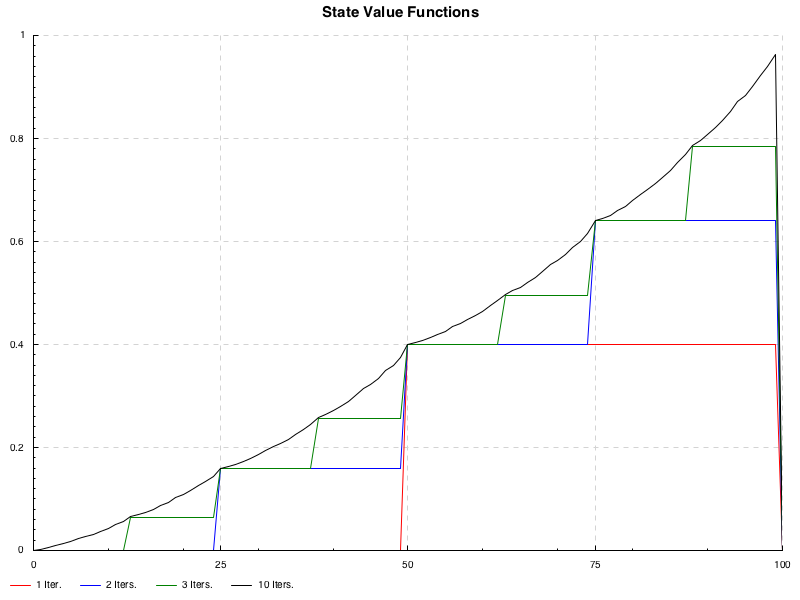
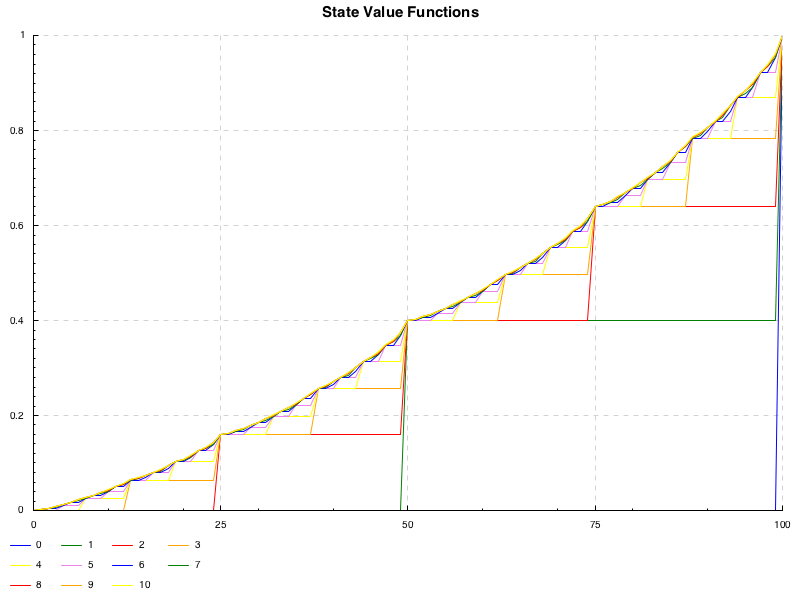
Progress on Gamblers Problem solution.

diff --git a/gambler.html b/gambler.html
@@ -72,108 +72,129 @@ Original date: May 10, 2018</p>
 <a class="sourceLine" id="cb4-11" data-line-number="11"></a>
 <a class="sourceLine" id="cb4-12" data-line-number="12">allStatesV <span class="fu">=</span> VS.generate P.id<span class="ot"> ::</span> <span class="dt">VS.Vector</span> <span class="dv">101</span> <span class="dt">Int</span></a>
 <a class="sourceLine" id="cb4-13" data-line-number="13"></a>
-<a class="sourceLine" id="cb4-14" data-line-number="14"><span class="ot">actions ::</span> <span class="dt">GState</span> <span class="ot">-&gt;</span> [<span class="dt">GAction</span>]</a>
-<a class="sourceLine" id="cb4-15" data-line-number="15">actions s <span class="fu">=</span> [<span class="dv">0</span> <span class="fu">..</span> min s (<span class="dv">100</span> <span class="fu">-</span> s)]</a>
+<a class="sourceLine" id="cb4-14" data-line-number="14"><span class="ot">actions&#39; ::</span> <span class="dt">GState</span> <span class="ot">-&gt;</span> [<span class="dt">GAction</span>]</a>
+<a class="sourceLine" id="cb4-15" data-line-number="15">actions&#39; s <span class="fu">=</span> [<span class="dv">0</span> <span class="fu">..</span> min s (<span class="dv">100</span> <span class="fu">-</span> s)]</a>
 <a class="sourceLine" id="cb4-16" data-line-number="16"></a>
-<a class="sourceLine" id="cb4-17" data-line-number="17"><span class="ot">nextStates ::</span> <span class="dt">GState</span> <span class="ot">-&gt;</span> <span class="dt">GAction</span> <span class="ot">-&gt;</span> [<span class="dt">GState</span>]</a>
-<a class="sourceLine" id="cb4-18" data-line-number="18">nextStates s a <span class="fu">=</span> <span class="kw">if</span> a <span class="fu">==</span> <span class="dv">0</span></a>
+<a class="sourceLine" id="cb4-17" data-line-number="17"><span class="ot">nextStates&#39; ::</span> <span class="dt">GState</span> <span class="ot">-&gt;</span> <span class="dt">GAction</span> <span class="ot">-&gt;</span> [<span class="dt">GState</span>]</a>
+<a class="sourceLine" id="cb4-18" data-line-number="18">nextStates&#39; s a <span class="fu">=</span> <span class="kw">if</span> a <span class="fu">==</span> <span class="dv">0</span></a>
 <a class="sourceLine" id="cb4-19" data-line-number="19">                   <span class="kw">then</span> [s]</a>
 <a class="sourceLine" id="cb4-20" data-line-number="20">                   <span class="kw">else</span> [s <span class="fu">-</span> a, s <span class="fu">+</span> a]</a>
 <a class="sourceLine" id="cb4-21" data-line-number="21"></a>
-<a class="sourceLine" id="cb4-22" data-line-number="22"><span class="ot">rewards ::</span> <span class="dt">GState</span> <span class="ot">-&gt;</span> <span class="dt">GAction</span> <span class="ot">-&gt;</span> <span class="dt">GState</span> <span class="ot">-&gt;</span> [(<span class="dt">Float</span>, <span class="dt">Float</span>)]</a>
-<a class="sourceLine" id="cb4-23" data-line-number="23">rewards s a s&#39; <span class="fu">=</span> <span class="kw">if</span> s&#39; <span class="fu">==</span> <span class="dv">100</span> <span class="fu">&amp;&amp;</span> s <span class="fu">/=</span> <span class="dv">100</span></a>
-<a class="sourceLine" id="cb4-24" data-line-number="24">                   <span class="kw">then</span> [(<span class="dv">1</span>, ph)]</a>
-<a class="sourceLine" id="cb4-25" data-line-number="25">                   <span class="kw">else</span> [(<span class="dv">0</span>, p)]</a>
-<a class="sourceLine" id="cb4-26" data-line-number="26"> <span class="kw">where</span> p <span class="fu">=</span> <span class="kw">if</span> s&#39; <span class="fu">==</span> s <span class="fu">+</span> a</a>
-<a class="sourceLine" id="cb4-27" data-line-number="27">             <span class="kw">then</span> ph</a>
-<a class="sourceLine" id="cb4-28" data-line-number="28">             <span class="kw">else</span> <span class="dv">1</span> <span class="fu">-</span> ph</a>
-<a class="sourceLine" id="cb4-29" data-line-number="29"></a>
-<a class="sourceLine" id="cb4-30" data-line-number="30"><span class="co">{----------------------------------------------------------------------</span></a>
-<a class="sourceLine" id="cb4-31" data-line-number="31"><span class="co">  Command line options defintions.</span></a>
-<a class="sourceLine" id="cb4-32" data-line-number="32"><span class="co">----------------------------------------------------------------------}</span></a>
-<a class="sourceLine" id="cb4-33" data-line-number="33"></a>
-<a class="sourceLine" id="cb4-34" data-line-number="34"><span class="kw">data</span> <span class="dt">Opts</span> w <span class="fu">=</span> <span class="dt">Opts</span></a>
-<a class="sourceLine" id="cb4-35" data-line-number="35">    {<span class="ot"> nIter ::</span> w <span class="ot">::</span><span class="fu">:</span> <span class="dt">Maybe</span> <span class="dt">Int</span> <span class="fu">&lt;?&gt;</span></a>
-<a class="sourceLine" id="cb4-36" data-line-number="36">        <span class="st">&quot;The number of policy improvement iterations&quot;</span></a>
-<a class="sourceLine" id="cb4-37" data-line-number="37">    ,<span class="ot"> nEval ::</span> w <span class="ot">::</span><span class="fu">:</span> <span class="dt">Maybe</span> <span class="dt">Int</span> <span class="fu">&lt;?&gt;</span></a>
-<a class="sourceLine" id="cb4-38" data-line-number="38">        <span class="st">&quot;The number of policy evaluation iterations per policy improvement iteration&quot;</span></a>
-<a class="sourceLine" id="cb4-39" data-line-number="39">    }</a>
-<a class="sourceLine" id="cb4-40" data-line-number="40">    <span class="kw">deriving</span> (<span class="dt">Generic</span>)</a>
-<a class="sourceLine" id="cb4-41" data-line-number="41"></a>
-<a class="sourceLine" id="cb4-42" data-line-number="42"><span class="kw">instance</span> <span class="dt">ParseRecord</span> (<span class="dt">Opts</span> <span class="dt">Wrapped</span>)</a>
-<a class="sourceLine" id="cb4-43" data-line-number="43"></a>
+<a class="sourceLine" id="cb4-22" data-line-number="22"><span class="ot">rewards&#39; ::</span> <span class="dt">GState</span> <span class="ot">-&gt;</span> <span class="dt">GAction</span> <span class="ot">-&gt;</span> <span class="dt">GState</span> <span class="ot">-&gt;</span> [(<span class="dt">Float</span>, <span class="dt">Float</span>)]</a>
+<a class="sourceLine" id="cb4-23" data-line-number="23">rewards&#39; s a s&#39; <span class="fu">=</span> [(<span class="dv">0</span>, p)]</a>
+<a class="sourceLine" id="cb4-24" data-line-number="24"><span class="co">-- rewards&#39; s a s&#39; = if s&#39; == 100 &amp;&amp; s /= 100</span></a>
+<a class="sourceLine" id="cb4-25" data-line-number="25"><span class="co">--                    then [(1, ph)]</span></a>
+<a class="sourceLine" id="cb4-26" data-line-number="26"><span class="co">--                    else [(0, p)]</span></a>
+<a class="sourceLine" id="cb4-27" data-line-number="27"> <span class="kw">where</span> p <span class="fu">=</span> <span class="kw">if</span> s&#39; <span class="fu">==</span> s <span class="fu">+</span> a</a>
+<a class="sourceLine" id="cb4-28" data-line-number="28">             <span class="kw">then</span> ph</a>
+<a class="sourceLine" id="cb4-29" data-line-number="29">             <span class="kw">else</span> <span class="dv">1</span> <span class="fu">-</span> ph</a>
+<a class="sourceLine" id="cb4-30" data-line-number="30"></a>
+<a class="sourceLine" id="cb4-31" data-line-number="31"><span class="co">{----------------------------------------------------------------------</span></a>
+<a class="sourceLine" id="cb4-32" data-line-number="32"><span class="co">  Command line options defintions.</span></a>
+<a class="sourceLine" id="cb4-33" data-line-number="33"><span class="co">----------------------------------------------------------------------}</span></a>
+<a class="sourceLine" id="cb4-34" data-line-number="34"></a>
+<a class="sourceLine" id="cb4-35" data-line-number="35"><span class="kw">data</span> <span class="dt">Opts</span> w <span class="fu">=</span> <span class="dt">Opts</span></a>
+<a class="sourceLine" id="cb4-36" data-line-number="36">    {<span class="ot"> nIter ::</span> w <span class="ot">::</span><span class="fu">:</span> <span class="dt">Maybe</span> <span class="dt">Int</span> <span class="fu">&lt;?&gt;</span></a>
+<a class="sourceLine" id="cb4-37" data-line-number="37">        <span class="st">&quot;The number of policy improvement iterations&quot;</span></a>
+<a class="sourceLine" id="cb4-38" data-line-number="38">    ,<span class="ot"> nEval ::</span> w <span class="ot">::</span><span class="fu">:</span> <span class="dt">Maybe</span> <span class="dt">Int</span> <span class="fu">&lt;?&gt;</span></a>
+<a class="sourceLine" id="cb4-39" data-line-number="39">        <span class="st">&quot;The number of policy evaluation iterations per policy improvement iteration&quot;</span></a>
+<a class="sourceLine" id="cb4-40" data-line-number="40">    }</a>
+<a class="sourceLine" id="cb4-41" data-line-number="41">    <span class="kw">deriving</span> (<span class="dt">Generic</span>)</a>
+<a class="sourceLine" id="cb4-42" data-line-number="42"></a>
+<a class="sourceLine" id="cb4-43" data-line-number="43"><span class="kw">instance</span> <span class="dt">ParseRecord</span> (<span class="dt">Opts</span> <span class="dt">Wrapped</span>)</a>
 <a class="sourceLine" id="cb4-44" data-line-number="44"></a>
-<a class="sourceLine" id="cb4-45" data-line-number="45"><span class="co">{----------------------------------------------------------------------</span></a>
-<a class="sourceLine" id="cb4-46" data-line-number="46"><span class="co">  main()</span></a>
-<a class="sourceLine" id="cb4-47" data-line-number="47"><span class="co">----------------------------------------------------------------------}</span></a>
-<a class="sourceLine" id="cb4-48" data-line-number="48"></a>
-<a class="sourceLine" id="cb4-49" data-line-number="49"><span class="ot">main ::</span> <span class="dt">IO</span> ()</a>
-<a class="sourceLine" id="cb4-50" data-line-number="50">main <span class="fu">=</span> <span class="kw">do</span></a>
-<a class="sourceLine" id="cb4-51" data-line-number="51">  <span class="co">-- Process command line options.</span></a>
-<a class="sourceLine" id="cb4-52" data-line-number="52"><span class="ot">  o ::</span> <span class="dt">Opts</span> <span class="dt">Unwrapped</span> <span class="ot">&lt;-</span></a>
-<a class="sourceLine" id="cb4-53" data-line-number="53">    unwrapRecord <span class="st">&quot;A solution to the &#39;Gambler&#39;s Problem&#39; (Ex. 4.9).&quot;</span></a>
-<a class="sourceLine" id="cb4-54" data-line-number="54">  <span class="kw">let</span> nIters <span class="fu">=</span> fromMaybe <span class="dv">10</span> (nIter o)</a>
-<a class="sourceLine" id="cb4-55" data-line-number="55">      nEvals <span class="fu">=</span> fromMaybe  <span class="dv">1</span> (nEval o)</a>
-<a class="sourceLine" id="cb4-56" data-line-number="56"></a>
-<a class="sourceLine" id="cb4-57" data-line-number="57">  <span class="co">-- Calculate and display optimum policy.</span></a>
-<a class="sourceLine" id="cb4-58" data-line-number="58">  writeFile <span class="st">&quot;other/gambler.md&quot;</span> <span class="st">&quot;\n### Policy optimization\n\n&quot;</span></a>
-<a class="sourceLine" id="cb4-59" data-line-number="59">  <span class="kw">let</span> iters <span class="fu">=</span> take (nIters <span class="fu">+</span> <span class="dv">1</span>)</a>
-<a class="sourceLine" id="cb4-60" data-line-number="60">                   <span class="fu">$</span> iterate ( optPol gamma&#39;  eps&#39;       nEvals allStatesV</a>
-<a class="sourceLine" id="cb4-61" data-line-number="61">                                      actions nextStates rewards</a>
-<a class="sourceLine" id="cb4-62" data-line-number="62">                             ) (const (<span class="dv">0</span>,<span class="dv">0</span>), <span class="st">&quot;&quot;</span>)</a>
-<a class="sourceLine" id="cb4-63" data-line-number="63">      acts  <span class="fu">=</span> map ((\f <span class="ot">-&gt;</span> VS.map (fst <span class="fu">.</span> f) allStatesV) <span class="fu">.</span> fst) iters</a>
-<a class="sourceLine" id="cb4-64" data-line-number="64">      diffs <span class="fu">=</span> map (VS.map (fromIntegral <span class="fu">.</span> abs) <span class="fu">.</span> uncurry (<span class="fu">-</span>))</a>
-<a class="sourceLine" id="cb4-65" data-line-number="65">                  <span class="fu">$</span> zip acts (P.tail acts)</a>
-<a class="sourceLine" id="cb4-66" data-line-number="66">  <span class="kw">let</span> ((_, (g&#39;, _)), msg) <span class="fu">=</span> first (fromMaybe (P.error <span class="st">&quot;main: Major failure!&quot;</span>)) <span class="fu">$</span></a>
-<a class="sourceLine" id="cb4-67" data-line-number="67">        runWriter <span class="fu">$</span> withinOnM eps&#39;</a>
-<a class="sourceLine" id="cb4-68" data-line-number="68">                              ( \ (dv, (_, msg&#39;)) <span class="ot">-&gt;</span></a>
-<a class="sourceLine" id="cb4-69" data-line-number="69">                                  <span class="kw">do</span> tell msg&#39;</a>
-<a class="sourceLine" id="cb4-70" data-line-number="70">                                     maxAndNonZero <span class="st">&quot;\n**Found %3d policy changes.**\n\n&quot;</span></a>
-<a class="sourceLine" id="cb4-71" data-line-number="71">                                                   dv</a>
-<a class="sourceLine" id="cb4-72" data-line-number="72">                              ) <span class="fu">$</span> zip diffs (P.tail iters)</a>
-<a class="sourceLine" id="cb4-73" data-line-number="73">  appendFile <span class="st">&quot;other/gambler.md&quot;</span> <span class="fu">$</span> pack msg</a>
-<a class="sourceLine" id="cb4-74" data-line-number="74"></a>
-<a class="sourceLine" id="cb4-75" data-line-number="75">  <span class="kw">let</span> pol   <span class="fu">=</span> fst <span class="fu">.</span> g&#39;</a>
-<a class="sourceLine" id="cb4-76" data-line-number="76">      val   <span class="fu">=</span> snd <span class="fu">.</span> g&#39;</a>
-<a class="sourceLine" id="cb4-77" data-line-number="77">      vs    <span class="fu">=</span> map (\(g, _) <span class="ot">-&gt;</span> snd <span class="fu">.</span> g) iters</a>
-<a class="sourceLine" id="cb4-78" data-line-number="78"></a>
-<a class="sourceLine" id="cb4-79" data-line-number="79">  <span class="co">-- Plot the state value functions.</span></a>
-<a class="sourceLine" id="cb4-80" data-line-number="80">  appendFile  <span class="st">&quot;other/gambler.md&quot;</span></a>
-<a class="sourceLine" id="cb4-81" data-line-number="81">             <span class="st">&quot;### State Value Functions\n\n&quot;</span></a>
-<a class="sourceLine" id="cb4-82" data-line-number="82">  toFile def <span class="st">&quot;img/gam_val.png&quot;</span> <span class="fu">$</span></a>
-<a class="sourceLine" id="cb4-83" data-line-number="83">    <span class="kw">do</span> layout_title <span class="fu">.=</span> <span class="st">&quot;State Value Functions&quot;</span></a>
-<a class="sourceLine" id="cb4-84" data-line-number="84">       setColors <span class="fu">$</span> map opaque [red, blue, green, black]</a>
-<a class="sourceLine" id="cb4-85" data-line-number="85">       forM_ ( zip [<span class="st">&quot;1 Iter.&quot;</span>, <span class="st">&quot;2 Iters.&quot;</span>, <span class="st">&quot;3 Iters.&quot;</span>]</a>
-<a class="sourceLine" id="cb4-86" data-line-number="86">                   [<span class="dv">1</span>,      <span class="dv">2</span>,      <span class="dv">3</span>]</a>
-<a class="sourceLine" id="cb4-87" data-line-number="87">             ) <span class="fu">$</span> \ (lbl, n) <span class="ot">-&gt;</span></a>
-<a class="sourceLine" id="cb4-88" data-line-number="88">                   plot ( line lbl</a>
-<a class="sourceLine" id="cb4-89" data-line-number="89">                               [ [ (x, (vs <span class="fu">P.!!</span> n) x)</a>
-<a class="sourceLine" id="cb4-90" data-line-number="90">                                 <span class="fu">|</span> x <span class="ot">&lt;-</span> [(<span class="dv">0</span><span class="ot">::</span><span class="dt">GState</span>)<span class="fu">..</span><span class="dv">100</span>]</a>
-<a class="sourceLine" id="cb4-91" data-line-number="91">                                 ]</a>
-<a class="sourceLine" id="cb4-92" data-line-number="92">                               ]</a>
-<a class="sourceLine" id="cb4-93" data-line-number="93">                        )</a>
-<a class="sourceLine" id="cb4-94" data-line-number="94">       plot ( line (printf <span class="st">&quot;%d Iters.&quot;</span> nIters)</a>
-<a class="sourceLine" id="cb4-95" data-line-number="95">                   <span class="co">-- [ [ (x, val x)</span></a>
-<a class="sourceLine" id="cb4-96" data-line-number="96">                   [ [ (x, (P.last vs) x)</a>
-<a class="sourceLine" id="cb4-97" data-line-number="97">                     <span class="fu">|</span> x <span class="ot">&lt;-</span> [<span class="dv">0</span><span class="fu">..</span><span class="dv">100</span>]</a>
-<a class="sourceLine" id="cb4-98" data-line-number="98">                     ]</a>
-<a class="sourceLine" id="cb4-99" data-line-number="99">                   ]</a>
-<a class="sourceLine" id="cb4-100" data-line-number="100">            )</a>
-<a class="sourceLine" id="cb4-101" data-line-number="101">  appendFile <span class="st">&quot;other/gambler.md&quot;</span> <span class="st">&quot;![](img/gam_val.png)\n&quot;</span></a>
-<a class="sourceLine" id="cb4-102" data-line-number="102"></a>
-<a class="sourceLine" id="cb4-103" data-line-number="103">  <span class="co">-- Plot the final policy.</span></a>
-<a class="sourceLine" id="cb4-104" data-line-number="104">  appendFile  <span class="st">&quot;other/gambler.md&quot;</span></a>
-<a class="sourceLine" id="cb4-105" data-line-number="105">             <span class="st">&quot;\n### Final Policy Function\n\n&quot;</span></a>
-<a class="sourceLine" id="cb4-106" data-line-number="106">  toFile def <span class="st">&quot;img/gam_pol.png&quot;</span> <span class="fu">$</span></a>
-<a class="sourceLine" id="cb4-107" data-line-number="107">    <span class="kw">do</span> layout_title <span class="fu">.=</span> <span class="st">&quot;Final Policy Function&quot;</span></a>
-<a class="sourceLine" id="cb4-108" data-line-number="108">       setColors <span class="fu">$</span> map opaque [blue, green, black]</a>
-<a class="sourceLine" id="cb4-109" data-line-number="109">       plot ( line <span class="st">&quot;pi(s)&quot;</span></a>
-<a class="sourceLine" id="cb4-110" data-line-number="110">                   [ [ (x, pol x)</a>
-<a class="sourceLine" id="cb4-111" data-line-number="111">                     <span class="fu">|</span> x <span class="ot">&lt;-</span> [<span class="dv">0</span><span class="fu">..</span><span class="dv">100</span>]</a>
-<a class="sourceLine" id="cb4-112" data-line-number="112">                     ]</a>
-<a class="sourceLine" id="cb4-113" data-line-number="113">                   ]</a>
-<a class="sourceLine" id="cb4-114" data-line-number="114">            )</a>
-<a class="sourceLine" id="cb4-115" data-line-number="115">  appendFile <span class="st">&quot;other/gambler.md&quot;</span> <span class="st">&quot;![](img/gam_pol.png)\n&quot;</span></a></code></pre></div>
+<a class="sourceLine" id="cb4-45" data-line-number="45"></a>
+<a class="sourceLine" id="cb4-46" data-line-number="46"><span class="co">{----------------------------------------------------------------------</span></a>
+<a class="sourceLine" id="cb4-47" data-line-number="47"><span class="co">  main()</span></a>
+<a class="sourceLine" id="cb4-48" data-line-number="48"><span class="co">----------------------------------------------------------------------}</span></a>
+<a class="sourceLine" id="cb4-49" data-line-number="49"></a>
+<a class="sourceLine" id="cb4-50" data-line-number="50"><span class="ot">main ::</span> <span class="dt">IO</span> ()</a>
+<a class="sourceLine" id="cb4-51" data-line-number="51">main <span class="fu">=</span> <span class="kw">do</span></a>
+<a class="sourceLine" id="cb4-52" data-line-number="52">  <span class="co">-- Process command line options.</span></a>
+<a class="sourceLine" id="cb4-53" data-line-number="53"><span class="ot">  o ::</span> <span class="dt">Opts</span> <span class="dt">Unwrapped</span> <span class="ot">&lt;-</span></a>
+<a class="sourceLine" id="cb4-54" data-line-number="54">    unwrapRecord <span class="st">&quot;A solution to the &#39;Gambler&#39;s Problem&#39; (Ex. 4.9).&quot;</span></a>
+<a class="sourceLine" id="cb4-55" data-line-number="55">  <span class="kw">let</span> nIters <span class="fu">=</span> fromMaybe <span class="dv">10</span> (nIter o)</a>
+<a class="sourceLine" id="cb4-56" data-line-number="56">      nEvals <span class="fu">=</span> fromMaybe  <span class="dv">1</span> (nEval o)</a>
+<a class="sourceLine" id="cb4-57" data-line-number="57"></a>
+<a class="sourceLine" id="cb4-58" data-line-number="58">  <span class="co">-- Calculate and display optimum policy.</span></a>
+<a class="sourceLine" id="cb4-59" data-line-number="59">  writeFile <span class="st">&quot;other/gambler.md&quot;</span> <span class="st">&quot;\n### Policy optimization\n\n&quot;</span></a>
+<a class="sourceLine" id="cb4-60" data-line-number="60">  <span class="kw">let</span> iters <span class="fu">=</span> take (nIters <span class="fu">+</span> <span class="dv">1</span>)</a>
+<a class="sourceLine" id="cb4-61" data-line-number="61">                   <span class="fu">$</span> iterate</a>
+<a class="sourceLine" id="cb4-62" data-line-number="62">                       ( optPol</a>
+<a class="sourceLine" id="cb4-63" data-line-number="63">                           rltDef</a>
+<a class="sourceLine" id="cb4-64" data-line-number="64">                             { gamma      <span class="fu">=</span> gamma&#39;</a>
+<a class="sourceLine" id="cb4-65" data-line-number="65">                             , epsilon    <span class="fu">=</span> eps&#39;</a>
+<a class="sourceLine" id="cb4-66" data-line-number="66">                             , maxIter    <span class="fu">=</span> nEvals</a>
+<a class="sourceLine" id="cb4-67" data-line-number="67">                             , states     <span class="fu">=</span> allStatesV</a>
+<a class="sourceLine" id="cb4-68" data-line-number="68">                             , actions    <span class="fu">=</span> actions&#39;</a>
+<a class="sourceLine" id="cb4-69" data-line-number="69">                             , nextStates <span class="fu">=</span> nextStates&#39;</a>
+<a class="sourceLine" id="cb4-70" data-line-number="70">                             , rewards    <span class="fu">=</span> rewards&#39;</a>
+<a class="sourceLine" id="cb4-71" data-line-number="71">                             , stateVals  <span class="fu">=</span></a>
+<a class="sourceLine" id="cb4-72" data-line-number="72">                                 [ (  <span class="dv">0</span>, <span class="dv">0</span>)</a>
+<a class="sourceLine" id="cb4-73" data-line-number="73">                                 , (<span class="dv">100</span>, <span class="dv">1</span>)</a>
+<a class="sourceLine" id="cb4-74" data-line-number="74">                                 ]</a>
+<a class="sourceLine" id="cb4-75" data-line-number="75">                             }</a>
+<a class="sourceLine" id="cb4-76" data-line-number="76">                       ) (\s <span class="ot">-&gt;</span> <span class="kw">if</span> s <span class="fu">==</span> <span class="dv">100</span> <span class="kw">then</span> (<span class="dv">0</span>,<span class="dv">1</span>) <span class="kw">else</span> (<span class="dv">0</span>,<span class="dv">0</span>), <span class="st">&quot;&quot;</span>)</a>
+<a class="sourceLine" id="cb4-77" data-line-number="77">      acts  <span class="fu">=</span> map ((\f <span class="ot">-&gt;</span> VS.map (fst <span class="fu">.</span> f) allStatesV) <span class="fu">.</span> fst) iters</a>
+<a class="sourceLine" id="cb4-78" data-line-number="78">      diffs <span class="fu">=</span> map (VS.map (fromIntegral <span class="fu">.</span> abs) <span class="fu">.</span> uncurry (<span class="fu">-</span>))</a>
+<a class="sourceLine" id="cb4-79" data-line-number="79">                  <span class="fu">$</span> zip acts (P.tail acts)</a>
+<a class="sourceLine" id="cb4-80" data-line-number="80">  <span class="kw">let</span> ((_, (g&#39;, _)), msg) <span class="fu">=</span> first (fromMaybe (P.error <span class="st">&quot;main: Major failure!&quot;</span>)) <span class="fu">$</span></a>
+<a class="sourceLine" id="cb4-81" data-line-number="81">        runWriter <span class="fu">$</span> withinOnM eps&#39;</a>
+<a class="sourceLine" id="cb4-82" data-line-number="82">                              ( \ (dv, (_, msg&#39;)) <span class="ot">-&gt;</span></a>
+<a class="sourceLine" id="cb4-83" data-line-number="83">                                  <span class="kw">do</span> tell msg&#39;</a>
+<a class="sourceLine" id="cb4-84" data-line-number="84">                                     maxAndNonZero <span class="st">&quot;\n**Found %3d policy changes.**\n\n&quot;</span></a>
+<a class="sourceLine" id="cb4-85" data-line-number="85">                                                   dv</a>
+<a class="sourceLine" id="cb4-86" data-line-number="86">                              ) <span class="fu">$</span> zip diffs (P.tail iters)</a>
+<a class="sourceLine" id="cb4-87" data-line-number="87">  appendFile <span class="st">&quot;other/gambler.md&quot;</span> <span class="fu">$</span> pack msg</a>
+<a class="sourceLine" id="cb4-88" data-line-number="88"></a>
+<a class="sourceLine" id="cb4-89" data-line-number="89">  <span class="kw">let</span> pol   <span class="fu">=</span> fst <span class="fu">.</span> g&#39;</a>
+<a class="sourceLine" id="cb4-90" data-line-number="90">      <span class="co">-- val   = snd . g&#39;</span></a>
+<a class="sourceLine" id="cb4-91" data-line-number="91">      vs    <span class="fu">=</span> map (\(g, _) <span class="ot">-&gt;</span> snd <span class="fu">.</span> g) iters</a>
+<a class="sourceLine" id="cb4-92" data-line-number="92"></a>
+<a class="sourceLine" id="cb4-93" data-line-number="93">  <span class="co">-- Plot the state value functions.</span></a>
+<a class="sourceLine" id="cb4-94" data-line-number="94">  appendFile  <span class="st">&quot;other/gambler.md&quot;</span></a>
+<a class="sourceLine" id="cb4-95" data-line-number="95">             <span class="st">&quot;### State Value Functions\n\n&quot;</span></a>
+<a class="sourceLine" id="cb4-96" data-line-number="96">  toFile def <span class="st">&quot;img/gam_val.png&quot;</span> <span class="fu">$</span></a>
+<a class="sourceLine" id="cb4-97" data-line-number="97">    <span class="kw">do</span> layout_title <span class="fu">.=</span> <span class="st">&quot;State Value Functions&quot;</span></a>
+<a class="sourceLine" id="cb4-98" data-line-number="98">       <span class="co">-- setColors $ map opaque [red, blue, green, black]</span></a>
+<a class="sourceLine" id="cb4-99" data-line-number="99">       forM_ (zip vs [<span class="dv">0</span><span class="fu">..</span>]) <span class="fu">$</span> \ (v,n) <span class="ot">-&gt;</span></a>
+<a class="sourceLine" id="cb4-100" data-line-number="100">                   plot ( line (P.show n)</a>
+<a class="sourceLine" id="cb4-101" data-line-number="101">                               [ [ (x, v x)</a>
+<a class="sourceLine" id="cb4-102" data-line-number="102">                                 <span class="fu">|</span> x <span class="ot">&lt;-</span> [(<span class="dv">0</span><span class="ot">::</span><span class="dt">GState</span>)<span class="fu">..</span><span class="dv">100</span>]</a>
+<a class="sourceLine" id="cb4-103" data-line-number="103">                                 ]</a>
+<a class="sourceLine" id="cb4-104" data-line-number="104">                               ]</a>
+<a class="sourceLine" id="cb4-105" data-line-number="105">                        )</a>
+<a class="sourceLine" id="cb4-106" data-line-number="106">       <span class="co">-- forM_ ( zip [&quot;1 Iter.&quot;, &quot;2 Iters.&quot;, &quot;3 Iters.&quot;]</span></a>
+<a class="sourceLine" id="cb4-107" data-line-number="107">       <span class="co">--             [1,      2,      3]</span></a>
+<a class="sourceLine" id="cb4-108" data-line-number="108">       <span class="co">--       ) $ \ (lbl, n) -&gt;</span></a>
+<a class="sourceLine" id="cb4-109" data-line-number="109">       <span class="co">--             plot ( line lbl</span></a>
+<a class="sourceLine" id="cb4-110" data-line-number="110">       <span class="co">--                         [ [ (x, (vs P.!! n) x)</span></a>
+<a class="sourceLine" id="cb4-111" data-line-number="111">       <span class="co">--                           | x &lt;- [(0::GState)..100]</span></a>
+<a class="sourceLine" id="cb4-112" data-line-number="112">       <span class="co">--                           ]</span></a>
+<a class="sourceLine" id="cb4-113" data-line-number="113">       <span class="co">--                         ]</span></a>
+<a class="sourceLine" id="cb4-114" data-line-number="114">       <span class="co">--                  )</span></a>
+<a class="sourceLine" id="cb4-115" data-line-number="115">       <span class="co">-- plot ( line (printf &quot;%d Iters.&quot; nIters)</span></a>
+<a class="sourceLine" id="cb4-116" data-line-number="116">       <span class="co">--             -- [ [ (x, val x)</span></a>
+<a class="sourceLine" id="cb4-117" data-line-number="117">       <span class="co">--             [ [ (x, (P.last vs) x)</span></a>
+<a class="sourceLine" id="cb4-118" data-line-number="118">       <span class="co">--               | x &lt;- [0..100]</span></a>
+<a class="sourceLine" id="cb4-119" data-line-number="119">       <span class="co">--               ]</span></a>
+<a class="sourceLine" id="cb4-120" data-line-number="120">       <span class="co">--             ]</span></a>
+<a class="sourceLine" id="cb4-121" data-line-number="121">       <span class="co">--      )</span></a>
+<a class="sourceLine" id="cb4-122" data-line-number="122">  appendFile <span class="st">&quot;other/gambler.md&quot;</span> <span class="st">&quot;![](img/gam_val.png)\n&quot;</span></a>
+<a class="sourceLine" id="cb4-123" data-line-number="123"></a>
+<a class="sourceLine" id="cb4-124" data-line-number="124">  <span class="co">-- Plot the final policy.</span></a>
+<a class="sourceLine" id="cb4-125" data-line-number="125">  appendFile  <span class="st">&quot;other/gambler.md&quot;</span></a>
+<a class="sourceLine" id="cb4-126" data-line-number="126">             <span class="st">&quot;\n### Final Policy Function\n\n&quot;</span></a>
+<a class="sourceLine" id="cb4-127" data-line-number="127">  toFile def <span class="st">&quot;img/gam_pol.png&quot;</span> <span class="fu">$</span></a>
+<a class="sourceLine" id="cb4-128" data-line-number="128">    <span class="kw">do</span> layout_title <span class="fu">.=</span> <span class="st">&quot;Final Policy Function&quot;</span></a>
+<a class="sourceLine" id="cb4-129" data-line-number="129">       setColors <span class="fu">$</span> map opaque [blue, green, black]</a>
+<a class="sourceLine" id="cb4-130" data-line-number="130">       plot ( line <span class="st">&quot;pi(s)&quot;</span></a>
+<a class="sourceLine" id="cb4-131" data-line-number="131">                   [ [ (x, pol x)</a>
+<a class="sourceLine" id="cb4-132" data-line-number="132">                     <span class="fu">|</span> x <span class="ot">&lt;-</span> [<span class="dv">0</span><span class="fu">..</span><span class="dv">100</span>]</a>
+<a class="sourceLine" id="cb4-133" data-line-number="133">                     ]</a>
+<a class="sourceLine" id="cb4-134" data-line-number="134">                   ]</a>
+<a class="sourceLine" id="cb4-135" data-line-number="135">            )</a>
+<a class="sourceLine" id="cb4-136" data-line-number="136">  appendFile <span class="st">&quot;other/gambler.md&quot;</span> <span class="st">&quot;![](img/gam_pol.png)\n&quot;</span></a></code></pre></div>
 <h2 id="output">output</h2>
 <h3 id="policy-optimization">Policy optimization</h3>
 <p>Value Iteration <strong>Found 99 policy changes.</strong></p>
